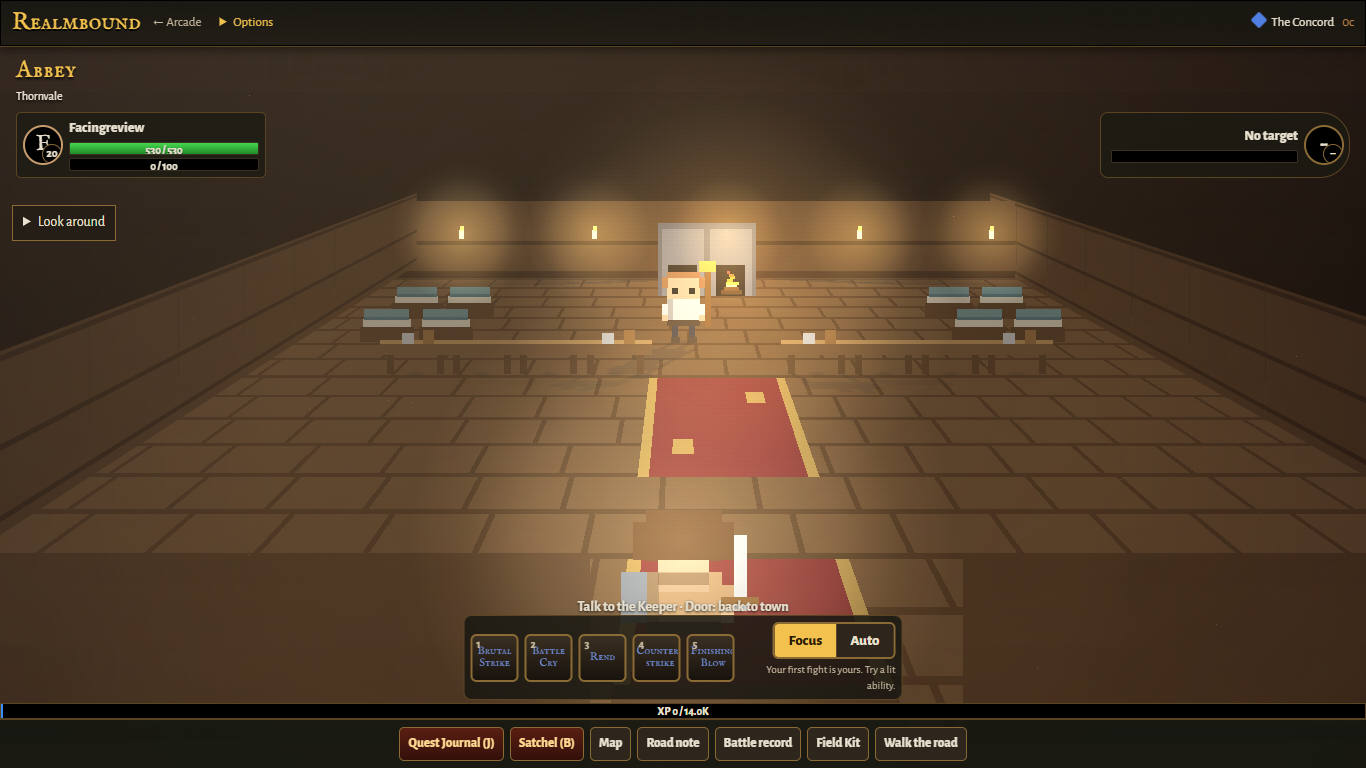
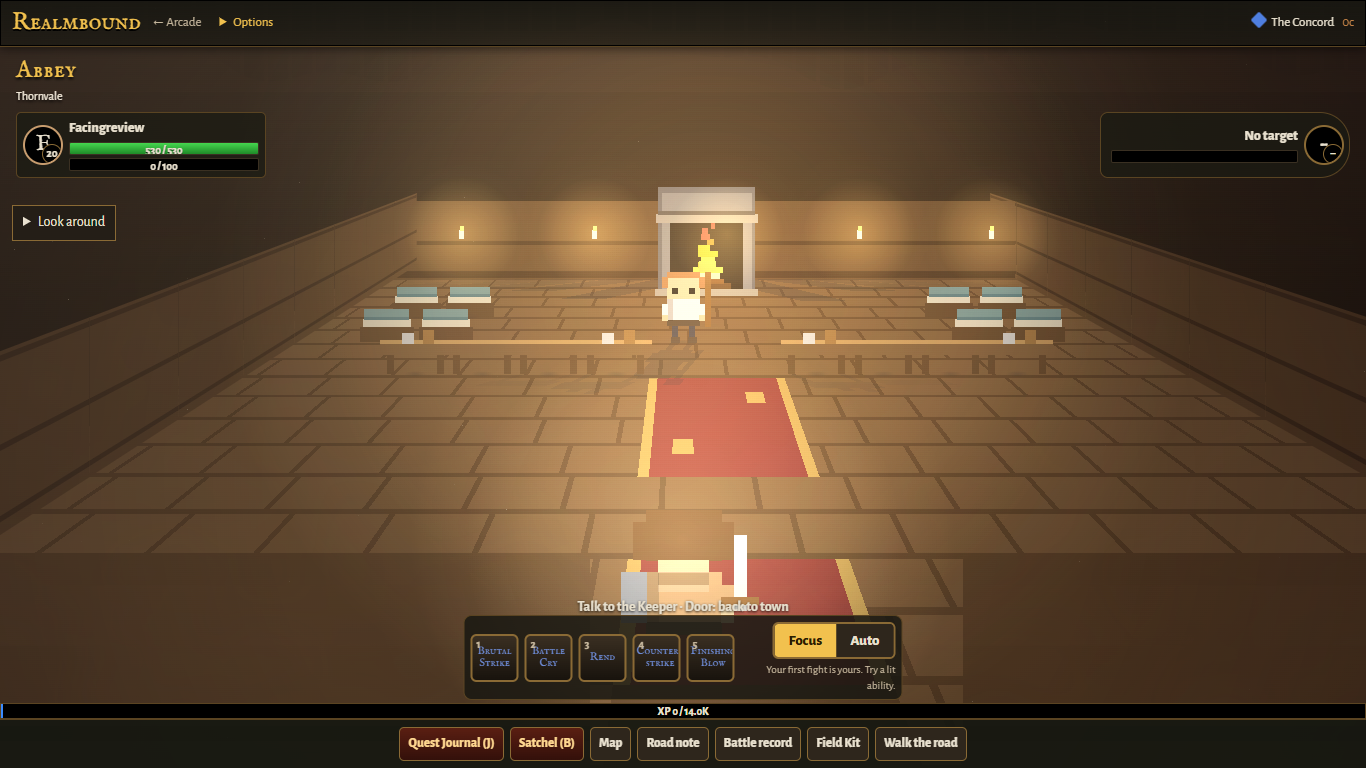
Size Realmbound hearths around a substantial contained flame

Changed region(s): [[0.246, 0.0625, 0.7994, 0.75]]

diff --git a/games/realmbound/js/22-town.js b/games/realmbound/js/22-town.js
@@ -211,7 +211,14 @@ function townFlat(g, ch, X, Y, s, t, x, y) {
 function buildingAt(x, y) { return townBuildings().find(b => x >= b.x && x < b.x + b.w && y >= b.y && y < b.y + b.h); }
 /* labels don't cast shadows */
 function label(c, text, cxp, y, s) { if (TOWN.pass === 'shadow') return; const sz = Math.max(9, Math.round(s * .28)); c.font = `700 ${sz}px Alegreya Sans, sans-serif`; c.textAlign = 'center'; c.fillStyle = 'rgba(0,0,0,.55)'; c.fillText(text, cxp + 1, y + 1); c.fillStyle = '#ffe9b0'; c.fillText(text, cxp, y); c.textAlign = 'left'; }
-function townStand(c, ch, left, base, s, t, x, y, pass) {
+// A run of hearth tiles is one fireplace, not a row of separate chimneys.
+function realmHearthSpan(rows,x,y){
+ const row=rows[y]||'';let start=x,end=x;
+ while(row[start-1]==='H')start--;
+ while(row[end+1]==='H')end++;
+ return {start,end,width:end-start+1};
+}
+function townStand(c, ch, left, base, s, t, x, y, pass, rows=TOWN.map.rows) {
   TOWN.pass = pass;
   const P = TOWN.pal, u = s / 8, R = (a, b, w, h, col) => { c.fillStyle = col; c.fillRect(Math.floor(left + a * u), Math.floor(base - (b + h) * u), Math.ceil(w * u), Math.ceil(h * u)); };
   const night = realmNight(), camp = townKind() === 'camp' && !TOWN.inside, px = Math.max(2, Math.round(u));
@@ -226,8 +233,17 @@ function townStand(c, ch, left, base, s, t, x, y, pass) {
   if(ch==='E'){R(.4,0,7.2,2,P.woodDk);R(.8,2,6.4,1,'#ede4cb');R(1,3,6,1.4,'#537d86');R(1,3.4,6,1,'#759b9c');return;}
   if(ch==='A'){R(2,0,4,2,'#333943');R(3,2,2,3,'#555e69');R(.5,5,7,1.4,'#9ba7b3');return;}
   if(ch==='Q'){R(1,0,.8,7,P.woodDk);R(6,0,.8,7,P.woodDk);R(1,6,6,1,P.wood);R(3,2,.5,5,'#b7bec8');R(2,3,3,.5,'#b7bec8');return;}
-  if (ch === 'H') { R(0, 0, 8, 12, '#6a6a70'); R(.6, 0, 6.8, 11, '#8a8a90'); R(1.6, 0, 4.8, 5, '#1a1410');
-    if (x % 2 === 0) {c.save();c.beginPath();c.rect(left+1.6*u,base-5*u,4.8*u,5*u);c.clip();TOWN.hearth=AMB.fire(c,left+4*u,base-u*.5,Math.max(1,Math.round(u*.5)),t,{id:'hearth',size:.85,smoke:false,embers:false});c.restore();} return; }
+  if(ch==='H'){
+    const hearth=realmHearthSpan(rows,x,y);if(x!==hearth.end)return;
+    const origin=(hearth.start-x)*8,width=hearth.width*8;
+    R(origin,0,width,18,'#626269');R(origin+.6,0,width-1.2,17,'#88878b');
+    R(origin+2,0,width-4,12,'#1a1410');
+    R(origin-.4,12,width+.8,1.4,'#a49d94');R(origin,13.4,width,.6,'#504c4c');
+    R(origin-.5,0,width+1,1,'#aaa295');
+    c.save();c.beginPath();c.rect(left+(origin+2)*u,base-12*u,(width-4)*u,11*u);c.clip();
+    TOWN.hearth=AMB.fire(c,left+(origin+width/2)*u,base-u*1.5,Math.max(1,Math.round(u*.65)),t,{id:'hearth',size:1.4,smoke:false,embers:false});
+    c.restore();return;
+  }
   if (ch === 'B') { R(-.2, 2.2, 8.4, 1.4, P.wood); R(-.2, 3.6, 8.4, .4, '#c8985a'); R(.6, 0, .8, 2.2, P.woodDk); R(6.6, 0, .8, 2.2, P.woodDk);
     if (x % 3 === 0) { R(2.4, 3.6, 1.4, 1.2, '#d8d8d8'); R(5, 3.6, 1.2, 1.6, '#a0703a'); } return; }
   if (ch === 'C') { R(.8, 0, 6.4, 4, '#6a4426'); R(.8, 4, 6.4, 1.6, '#8a5a30'); R(.8, 2.6, 6.4, .5, '#f2c14e'); R(3.6, 2, .8, 1.6, '#f2c14e'); label(c, 'Chest', left + s / 2, base - 7 * u, s); return; }
@@ -283,7 +299,7 @@ function drawTown(t) {
     Object.assign(view, { sky, hill: TOWN.pal.treeDk, edgeFill: TOWN.pal.treeDk, haze: sky[1],
       skyDraw: (g, w, hh, tt) => AMB.sky(g, w, hh, tt, { top: z.sky[0], bottom: z.sky[1], h: hh, night, clouds: { n: 4, speed: 6 }, storm: W.storm ? 1 : W.rain ? .45 : 0, px: 2 }) }); }
   const sun = inside ? Object.assign(LT.time(.75), { elev: 0 }) : realmSun(), camp = townKind() === 'camp' && !inside, lamps = [];
-  TOWN.map.rows.forEach((r, y) => [...r].forEach((ch, x) => { if (ch === 'L') lamps.push({ x: x + .5, y: y + .9, h: 1.3, reach: 4 }); else if (ch === 'F') lamps.push({ x: x + .5, y: y + .9, h: .4, reach: 6.5 }); else if (ch === 'H' && x % 2 === 0) lamps.push({ x: x + .5, y: y + .9, h: .3, reach: 5 }); }));
+  TOWN.map.rows.forEach((r, y) => [...r].forEach((ch, x) => { if (ch === 'L') lamps.push({ x: x + .5, y: y + .9, h: 1.3, reach: 4 }); else if (ch === 'F') lamps.push({ x: x + .5, y: y + .9, h: .4, reach: 6.5 }); else if(ch==='H'){const hearth=realmHearthSpan(TOWN.map.rows,x,y);if(x===hearth.end)lamps.push({x:hearth.start+hearth.width/2,y:y+.9,h:.55,reach:5});} }));
   Object.assign(view, { lt: REALM_WALK_LIGHT, sun, lamps, noCast: { H: 1, F: 1, L: camp ? 1 : 0 } }); // shadows from the sun, moon, lamps and fires (23-light.js)
   TOWN.cam = TOWN_HD.draw(cx, PW, PH, t, view);
   // light: lamps, torches, windows, doors, the firepit and hearth, you; weather outdoors only

diff --git a/tests/realmbound-facing.js b/tests/realmbound-facing.js
@@ -38,7 +38,24 @@ function checkRealmFacing(frame){return frame.contentWindow.eval('('+function(){
  for(const x of [0,room.rows[0].length-1])for(let y=1;y<room.rows.length-2;y++){const a=realmSideWallPoints(x,y,room,1.75),b=realmSideWallPoints(x,y+1,room,1.75);check(a&&b&&a[1].every((v,i)=>Math.abs(v-b[0][i])<.001)&&a[2].every((v,i)=>Math.abs(v-b[3][i])<.001),'side '+x+' rows '+y+'/'+(y+1)+' share exact top and floor corners');}
  TOWN.inside='inn';TOWN_WALK.place(...SERVICE_ROOMS.inn.start);TOWN.on=true;
  for(const offset of [0,.25]){TOWN_WALK.fx=7+offset;TOWN_WALK.fy=8-offset;drawTown(0);const points=realmSideWallPoints(0,1,{rows:TOWN.map.rows,pos:{x:TOWN_WALK.fx,y:TOWN_WALK.fy},horizon:.12},1.75),floor=TOWN.cam.fwd(1,2);check(points[2].every((v,i)=>Math.abs(v-floor[i])<.001),'side-wall plane matches floor camera while moving '+offset);}TOWN_WALK.place(...SERVICE_ROOMS.inn.start);
- const fire=AMB.fire;let clipping=false,fireOptions;const clip=g.clip;g.clip=function(){clipping=true;return clip.apply(this,arguments);};
- try{AMB.fire=function(c,x,y,px,t,o){fireOptions=o;check(clipping&&o.embers===false,'hearth flame is clipped inside the opening with no escaping embers');return fire.call(this,c,x,y,px,t,o);};TOWN.pal=townPal();townStand(g,'H',20,120,48,0,8,1);check(fireOptions.size<1,'hearth flame fits the opening');}finally{AMB.fire=fire;g.clip=clip;}
+ const fire=AMB.fire;let clipping=false,fireCalls=0;const clip=g.clip;g.clip=function(){clipping=true;return clip.apply(this,arguments);};
+ try{AMB.fire=function(c,x,y,px,t,o){fireCalls++;check(clipping&&o.embers===false,'hearth flame is contained without escaping embers');return fire.call(this,c,x,y,px,t,o);};TOWN.pal=townPal();
+  for(const [name,rows,y,start,end]of [['town',SERVICE_ROOMS.inn.rows,1,7,8],['road',REALM_ROAD_INN.rows,2,4,5]]){
+   const s=48,u=s/8,left=80,base=160;
+   for(const t of [0,.13,.5,1.7]){
+    g.clearRect(0,0,240,200);clipping=false;const before=fireCalls;
+    townStand(g,'H',left-s,base,s,t,start,y,undefined,rows);
+    check(fireCalls===before,name+' hearth is drawn once for the two-tile footprint');
+    townStand(g,'H',left,base,s,t,end,y,undefined,rows);
+    const a=pixels();let minY=200,maxY=0,count=0,outside=false;
+    for(let i=0;i<a.length;i+=4)if(a[i]>150&&a[i+1]>40&&a[i+1]<245&&a[i+2]<100&&a[i+3]){
+     const xx=i/4%240,yy=Math.floor(i/4/240);count++;minY=Math.min(minY,yy);maxY=Math.max(maxY,yy);
+     if(xx<left-s+2*u||xx>=left+s-2*u||yy<base-12*u||yy>=base-u)outside=true;
+    }
+    check(count>0&&!outside,name+' visible flame stays inside the stone opening at '+t);
+    check(maxY-minY>s*.65,name+' fire remains substantial beside person-sized furnishings at '+t);
+   }
+  }
+ }finally{AMB.fire=fire;g.clip=clip;}
 return checks;
 }.toString()+')()');}

diff --git a/games/realmbound/js/33-road-places.js b/games/realmbound/js/33-road-places.js
@@ -61,11 +61,11 @@ function drawRealmRoad(t){
  const stand=(c,ch,left,base,s,tt,x,y,pass)=>{
   if(ch==='I'||ch==='D'){const u=s/8,depth=6-y;c.fillStyle='#c9b596';c.fillRect(left,base-8*u,s,8*u);c.fillStyle='#673b31';c.fillRect(left,base-(11+depth*2)*u,s,(3+depth*2)*u);c.fillStyle='#ad7354';c.fillRect(left,base-(11+depth*2)*u,s,u);if(y===6){c.fillStyle=ch==='D'?'#543321':'#edc675';c.fillRect(left+2*u,base-6*u,4*u,5*u);if(ch==='D')label(c,'Lantern Rest',left+s/2,base-13*u,s);}return;}
   if(ch==='#'){if(x===0||x===REALM_ROAD_INN.rows[0].length-1){drawRoomSideWall(c,x,y,{rows:REALM_ROAD_INN.rows,pos:{x:p.fx,y:p.fy},horizon:.2});return;}c.fillStyle='#493426';c.fillRect(left,base-s*1.4,s,s*1.4);return;}
-  townStand(c,ch,left,base,s,tt,x,y,pass);
+  townStand(c,ch,left,base,s,tt,x,y,pass,inside?REALM_ROAD_INN.rows:REALM_ROAD_MAP.rows);
  };
- const view={rows:inside?REALM_ROAD_INN.rows:REALM_ROAD_MAP.rows,px:p.fx,py:p.fy,flat:townFlat,stand,things,under:inside?'_':',',stands:{T:1,I:1,F:1,B:1,P:1,H:1,'#':1,D:1},noShadow:{I:1,'#':1},sky:inside?['#241a16','#483123']:z.sky,hill:inside?'#35271d':z.hill,edgeFill:inside?'#211710':TOWN.pal.treeDk,haze:inside?'#4e3524':z.sky[1],zoom:inside?REALM_ROOM_ZOOM:4.4,dof:false,lamps:inside?[{x:4.5,y:2.9,h:.3,reach:5}]:[{x:8.5,y:6.8,h:.8,reach:4},{x:18.5,y:9.8,h:.4,reach:6.5}],lt:REALM_WALK_LIGHT,sun:inside?Object.assign(LT.time(.75),{elev:0}):realmSun()};
+ const view={rows:inside?REALM_ROAD_INN.rows:REALM_ROAD_MAP.rows,px:p.fx,py:p.fy,flat:townFlat,stand,things,under:inside?'_':',',stands:{T:1,I:1,F:1,B:1,P:1,H:1,'#':1,D:1},noShadow:{I:1,'#':1,H:1},sky:inside?['#241a16','#483123']:z.sky,hill:inside?'#35271d':z.hill,edgeFill:inside?'#211710':TOWN.pal.treeDk,haze:inside?'#4e3524':z.sky[1],zoom:inside?REALM_ROOM_ZOOM:4.4,dof:false,lamps:inside?[{x:5,y:2.9,h:.55,reach:5}]:[{x:8.5,y:6.8,h:.8,reach:4},{x:18.5,y:9.8,h:.4,reach:6.5}],lt:REALM_WALK_LIGHT,sun:inside?Object.assign(LT.time(.75),{elev:0}):realmSun()};
  r.cam=REALM_ROAD_HD.draw(cx,PW,PH,reduce?0:t,view);
- const lights=[];for(const [x,y]of inside?[[4,2],[6,3]]:[[8,6],[18,9],[27,3]]){const q=r.cam.fwd(x+.5,y+.8);if(q)lights.push({x:q[0],y:q[1]-q[2]*.4,r:q[2]*2.7,col:'#ffc878'});}
+ const lights=[];for(const [x,y,h]of inside?[[5,2.9,.55],[6.5,3.8,.4]]:[[8.5,6.8,.4],[18.5,9.8,.4],[27.5,3.8,.4]]){const q=r.cam.fwd(x,y);if(q)lights.push({x:q[0],y:q[1]-q[2]*h,r:q[2]*2.7,col:'#ffc878'});}
  LT.fog(cx,PW,PH,reduce?0:t,{ground:PH,top:PH*.3,density:inside?.12:.18,col:inside?'#b38551':(ZONE_LIGHT[H().zone]?.col||'#d0d6d1'),lights});
  AMB.lights(cx,PW,PH,reduce?0:t,{dark:inside?.65:night,max:.45,tint:inside?'#21130d':'#101b2a',lights});
 }

diff --git a/docs/screenshots/realmbound-facing/README.md b/docs/screenshots/realmbound-facing/README.md
@@ -6,12 +6,12 @@ Keep the existing 2D people and perspective world. Front, rear and mirrored prof
 
 The large oval is a contact shadow, not the object silhouette. Low graphics also made the shared caster draw an ellipse. A Realmbound-only adapter uses Light.create's unblurred silhouette caster for walkable towns and roads, in both quality settings, and reduces the contact radius to 34% and its opacity to 45%. Fog and bloom still obey the existing graphics setting. No shared engine changes. The road now supplies its existing hearth, inn and campfire as cast-light sources.
 
-Side walls now draw as connected perspective planes, with continuous rails, instead of separate front-facing wall blocks. Hearth flames use a smaller size, no escaping embers, and a clip inside the opening. Interior zoom changes from 5.2 to 6.2: people and upright objects occupy less height relative to the floor, giving a modestly steeper-looking view. This is framing in the existing perspective renderer, not a new 3D camera.
+Side walls now draw as connected perspective planes, with continuous rails, instead of separate front-facing wall blocks. Evan preferred the original substantial flame: adjacent hearth tiles now form one broad fireplace, with a taller opening, stone surround and mantel scaled around the fire. The flame retains size 1.4, with no escaping embers and a clip inside the opening. It is centred on the combined footprint, and the cast light and warm glow agree with it; people and furnishings retain their scale. Interior zoom changes from 5.2 to 6.2: people and upright objects occupy less height relative to the floor, giving a modestly steeper-looking view. This is framing in the existing perspective renderer, not a new 3D camera.
 
 ## Evidence
 
-- One full run hit the unchanged Lighthouse Watch check "a burst pops a spark for 25 points"; the next full run passed it without test or game edits. All 16 suites passed. Realmbound: 8590 checks, including 61 new checks in realmbound-facing.js. A second run with reduced motion also passed.
-- Pixel checks cover all race/class combinations, four distinct views, 0/1/2 visible eyes, opacity preservation, walking/stationary/reduced-motion poses, silhouette gaps on Low and High, sunlight direction, lamp direction, small contact bounds and live town/road renderer integration. Additional checks verify shared wall corners, alignment with the smooth floor camera, and clipped hearth flames.
+- One full run hit the unchanged Lighthouse Watch check "a burst pops a spark for 25 points"; the next full run passed it without test or game edits. All 16 suites passed. Realmbound: 8620 checks, including 91 new checks in realmbound-facing.js. A second run with reduced motion also passed.
+- Pixel checks cover all race/class combinations, four distinct views, 0/1/2 visible eyes, opacity preservation, walking/stationary/reduced-motion poses, silhouette gaps on Low and High, sunlight direction, lamp direction, small contact bounds and live town/road renderer integration. Additional checks verify shared wall corners, alignment with the smooth floor camera, and visible flame containment across four animation times in both inns. The flame must stay substantial relative to a tile, rather than merely using a small size setting.
 - Before/after captures use isolated contexts and Low graphics at 375x812, 1366x768, 1920x1080 and 3440x1440. Before loads the four original rendering scripts from main in browser request interception. Same room/hero/camera; outdoor comparison uses the same fixed sunrise state. No player saves read. No page errors.
 - The inn captures demonstrate the rear view and hearth shadows. Town dawn captures show profiles and tree/person silhouettes. Road hearth captures show shadows cast away from the fire. People sheets show all five classes in all four directions.
 - Actual canvas click to the Keeper, existing rest choice and keyboard exit passed at all four sizes during development.

diff --git a/docs/DEVELOPMENT-PATH.md b/docs/DEVELOPMENT-PATH.md
@@ -198,7 +198,7 @@ creatures as monsters. Built as first-person grid delves (docs/proposals/new-gam
 - [x] RB1.5 [ChatGPT] (built: Codex, 2026-10-09, PR #98; awaiting review) Wait for the player (GR-10, a bug): autopilot must not take over during the first dialogue
   (games/realmbound/js/13-world-ui.js:95); fix the stray blocks in the sky. Do first.
 
-- [ ] RB1.8 [ChatGPT] Facing people and object-shaped shadows (built: Codex, 2026-10-10, PR #155; awaiting review). Evan's request: four-direction walking sprites and quieter foot contact shadows so existing silhouette casts read clearly, including Low quality. Files: browser Realmbound scene/town/road/light code, focused rendering checks and their run.html hookup, screenshots and notes; no shared engine or Godot edits, saves or versions. Done when walking away hides the face, NPC facing is respected, sun/lamp casts retain object shapes, side walls join as planes, the hearth stays in its opening, room framing is a little steeper, and all suites pass. Score 19/21 (Fun 3x2, Evan's heart 3x2, Friends notice 3, Focus 2, Cheap 2).
+- [ ] RB1.8 [ChatGPT] Facing people and object-shaped shadows (built: Codex, 2026-10-10, PR #155; awaiting review). Evan's request: four-direction walking sprites and quieter foot contact shadows so existing silhouette casts read clearly, including Low quality. Files: browser Realmbound scene/town/road/light code, focused rendering checks and their run.html hookup, screenshots and notes; no shared engine or Godot edits, saves or versions. Done when walking away hides the face, NPC facing is respected, sun/lamp casts retain object shapes, side walls join as planes, a substantial flame fits a generous hearth opening, room framing is a little steeper, and all suites pass. Score 19/21 (Fun 3x2, Evan's heart 3x2, Friends notice 3, Focus 2, Cheap 2).
 
 **RB-M2: what the raid set up.**
 - [ ] RB2.1 [ChatGPT] Battlegrounds plan in docs/proposals/ (R3; new system: Evan
@@ -321,7 +321,7 @@ the **card shop** is one of its businesses, selling Wildbond cards (creatures an
 
 ## Part 4: what we've learned and actioned (newest first; every piece of work adds a line)
 
-- **2026-10-10, RB1.8 (Codex, PR #155):** walkers already had directions, but drawing ignored them. Low graphics replaced silhouette casts with ellipses; Realmbound now uses unblurred casts and smaller contacts. Side walls need connected projected corners rather than upright tile rectangles; hearth animation must fit its opening.
+- **2026-10-10, RB1.8 (Codex, PR #155):** walkers already had directions, but drawing ignored them. Low graphics replaced silhouette casts with ellipses; Realmbound now uses unblurred casts and smaller contacts. Side walls need connected projected corners rather than upright tile rectangles; size the hearth around a substantial flame instead of shrinking the flame to conceal a proportion problem.
 - **2026-10-10, ART-SF-5:** a yard's footprint is a placement envelope, not a solid block; record individual props/fence segments and keep the entry clear.
 
 - **2026-10-10, ART-SF-4:** model window states as glass-only changes; alpha and footprint invariants keep lighting swaps from changing placement or collision.

diff --git a/START-HERE.md b/START-HERE.md
@@ -105,7 +105,7 @@ out, the ticket factory in [docs/DEVELOPMENT-PATH.md](docs/DEVELOPMENT-PATH.md) 
 
 ## Session log (newest first; one or two lines each)
 
-- **2026-10-10, Codex:** RB1.8 in PR #155: facing/stepping people, object silhouette shadows on Low/High, continuous room side walls, contained hearth fire and slightly steeper room framing. All suites and four-size captures checked; no shared engine, Godot, saves or version edits.
+- **2026-10-10, Codex:** RB1.8 in PR #155: facing/stepping people, object silhouette shadows on Low/High, continuous room side walls, a generous stone fireplace around the larger contained flame, and slightly steeper room framing. All suites and four-size captures checked; no shared engine, Godot, saves or version edits.
 
 - 2026-10-10 — Grok (Adam / abarish-dev, guest): at Adam's request merged the Starfall art series ART-SF-1 to 5: #134 (`0b7de29`), #135 (`d71cf82`), #136 (`0ae329d`), #139 (`3f23825`), #144 (`41b06f5`), each retargeted to main after the one before, with art-direction sign-off waived by Adam. Assets only, not wired into the game yet (SF2.6), so no Starfall version bump.
 - 2026-10-10 — Grok (Adam / abarish-dev, guest): at Adam's request merged #137 (WB2.4/H8 Larkhaven homes, `efa943a`), #143 (COMMS map review, `8c782a0`), #145 (AC2 Lighthouse Watch, `612813e`) and #146 (AR2.11 Tell us, `e81ac6a`), each after the PROCESS.md self-check. Post-merge: Lighthouse Watch v0.1.0 with its Tell us hookup, arcade v1.5.1, ticks. ART-SF series (#134 to #144) held: see COMMS.

diff --git a/docs/COMMS.md b/docs/COMMS.md
@@ -36,6 +36,9 @@ from each ticket go in DEVELOPMENT-PATH.md Part 4 (a line each).
 
 ## Messages
 
+### 2026-10-10 14:00, Codex to all
+Evan preferred the larger flame and flagged room proportions. PR #155 now sizes a single two-tile stone fireplace around that flame, instead of shrinking it into half the hearth. The opening, mantel, light source and road glow agree; floor plans and person/furniture scale stay unchanged. Pixel checks cover containment at four animation times in both inns, plus a minimum visible flame height. Refreshed four-size screenshots; over 8600 Realmbound checks and all 16 suites pass. PR #153's furniture remains a separate compatible update.
+
 ### 2026-10-10 13:20, Codex to all
 Evan requested facing people/object-shaped shadows and then flagged jagged walls and fire clipping the chimney. [PR #155](https://github.com/ecbarish/idle-arcade/pull/155), browser Realmbound only: four walking views, NPC direction, small foot contacts, silhouette casting on Low/High, road light sources, continuous side-wall planes, flame sized/clipped to its opening, modest interior framing adjustment. Screenshots/checks in docs/screenshots/realmbound-facing/ and tests/realmbound-facing.js. No shared-engine, Godot or save edits. Keep PR #153's inn furniture too; it is a separate compatible update.
 
